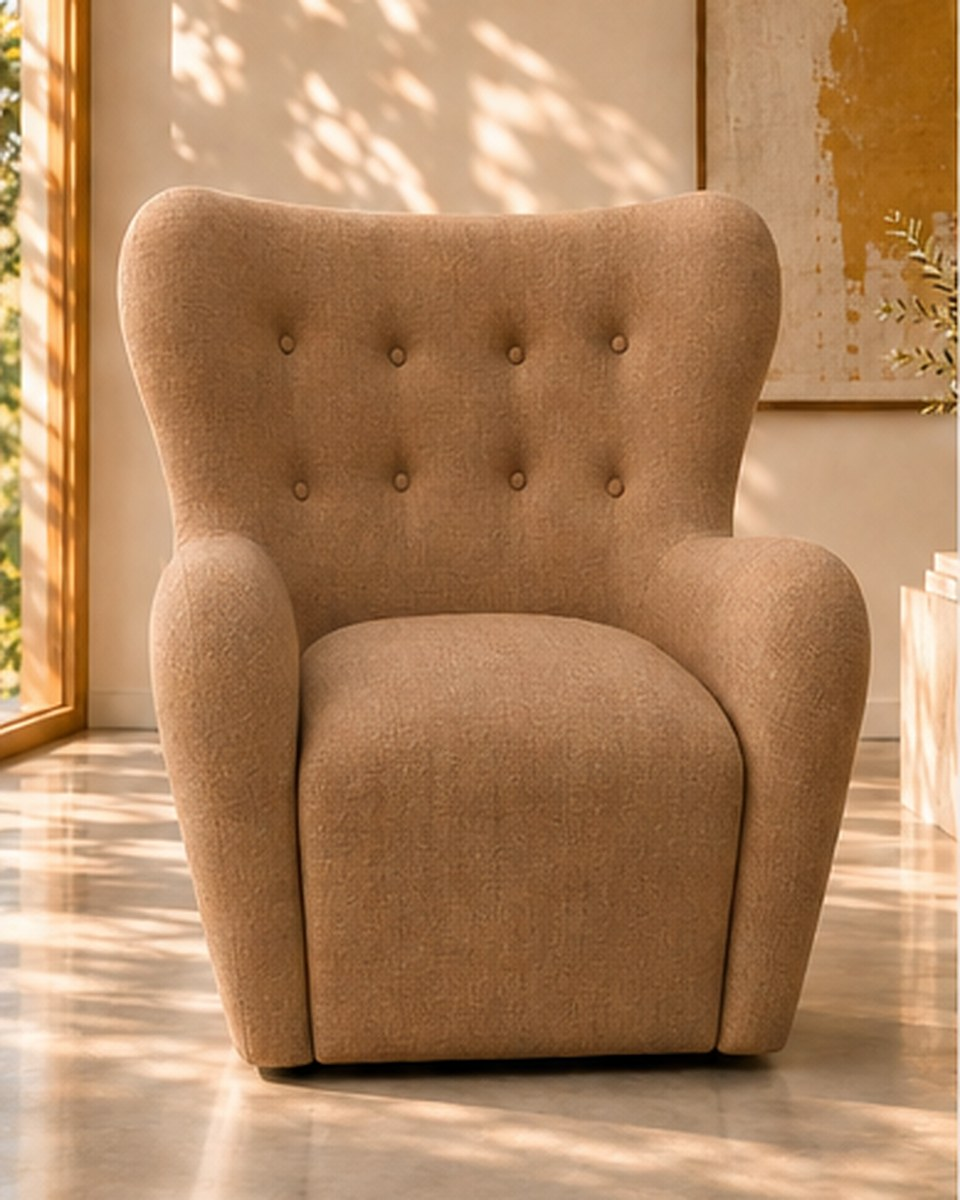
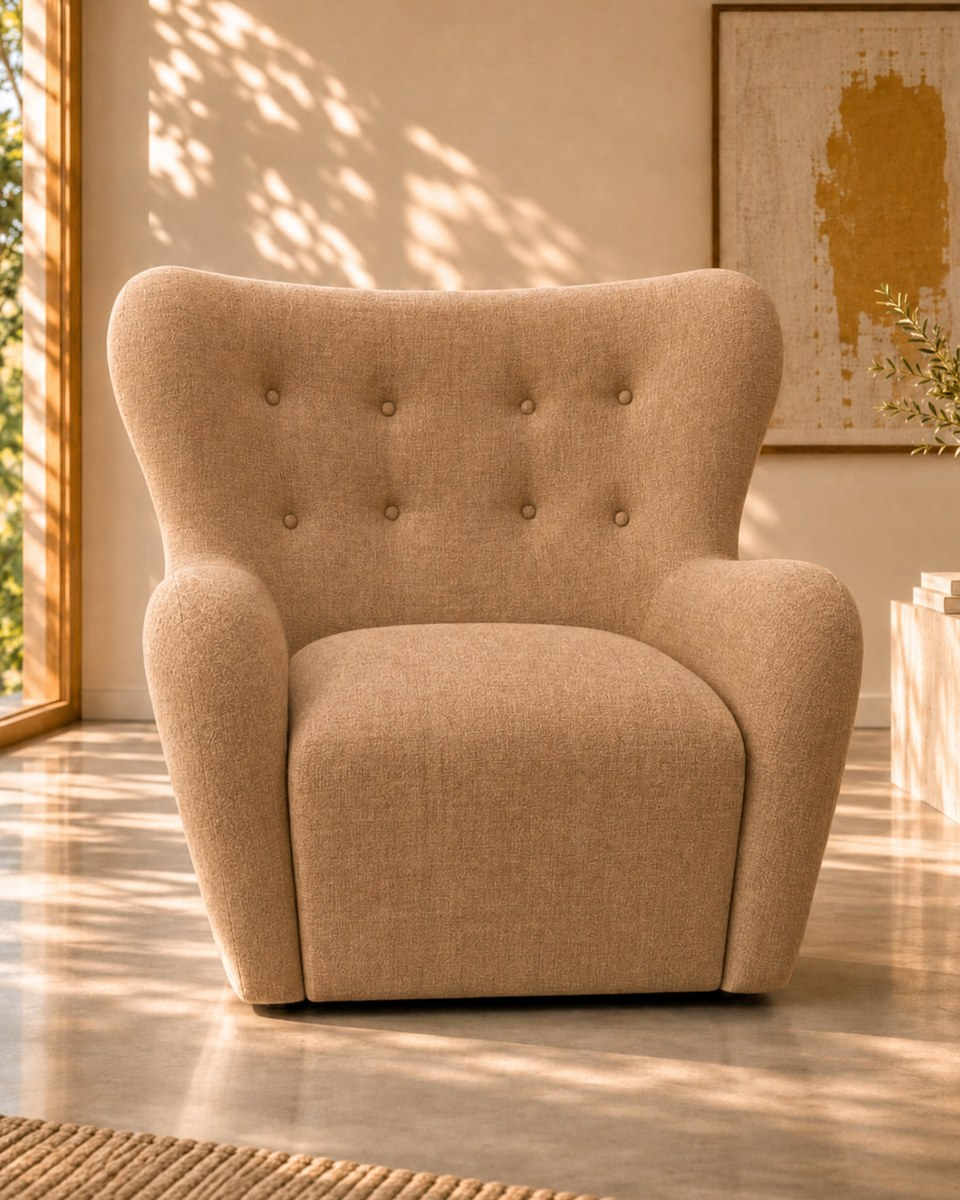
Pembroke: new Saddle render (right shape); every color now has a render (#212)
Claude-Session: https://claude.ai/code/session_01V26sLvBUhfDUUry7zd4PU8

diff --git a/lib/products.ts b/lib/products.ts
@@ -308,11 +308,10 @@ const ALL_PRODUCTS: Product[] = [
     // Fabrics (Tessa, Nov 23): the Marlowe's Irish Linen in all eight of its colors and names, plus the Nook's cover
     // fabric (Belgian linen and wool) in the Nook's three colors. Organic Cotton is off the Pembroke. One price for both.
     // Photos (Tessa, Nov 23): renders of the real chair (Higgsfield, from pembroke-hero) in each color, then the
-    // real photo. Saddle has no render yet (the first one came out the wrong shape and is being remade, Tessa Nov 23):
-    // it shows pembroke-hero recolored (public/tint/pembroke-hero.png). The older
+    // real photo (every color has a render as of Nov 23; pembroke-hero stays recolorable as a fallback) (public/tint/pembroke-hero.png). The older
     // pembroke-blend/-belgian/-cotton/-1/-2 files show a different chair and stay off the page.
     photos: [
-      "pembroke-irish-fleece", "pembroke-irish-oat", "pembroke-irish-reed", "pembroke-irish-flax", "pembroke-irish-chalk", "pembroke-irish-fawn", "pembroke-irish-flint",
+      "pembroke-irish-fleece", "pembroke-irish-oat", "pembroke-irish-reed", "pembroke-irish-flax", "pembroke-irish-chalk", "pembroke-irish-fawn", "pembroke-irish-saddle", "pembroke-irish-flint",
       "pembroke-belgian-olive", "pembroke-belgian-oat", "pembroke-belgian-toffee",
       "pembroke-hero",
     ],
@@ -323,6 +322,7 @@ const ALL_PRODUCTS: Product[] = [
       "pembroke-irish-chalk": { fabric: "irish", color: "ivory" },
       "pembroke-irish-flax": { fabric: "irish", color: "oatmeal" },
       "pembroke-irish-fawn": { fabric: "irish", color: "sand" },
+      "pembroke-irish-saddle": { fabric: "irish", color: "coco" },
       "pembroke-irish-flint": { fabric: "irish", color: "dove" },
       "pembroke-irish-reed": { fabric: "irish", color: "flax" },
       "pembroke-belgian-olive": { fabric: "belgian", color: "moss" },
